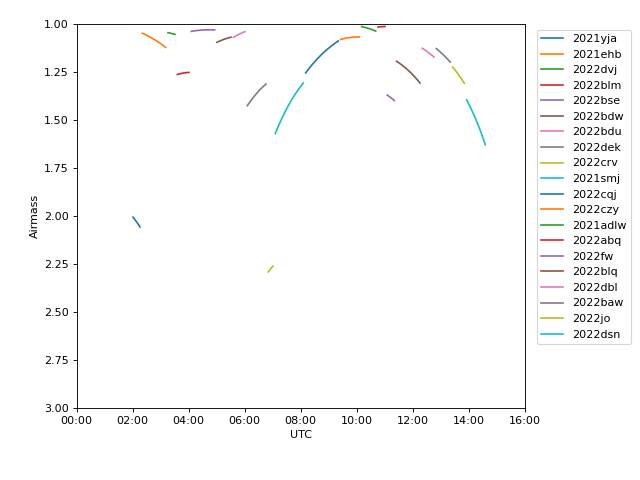
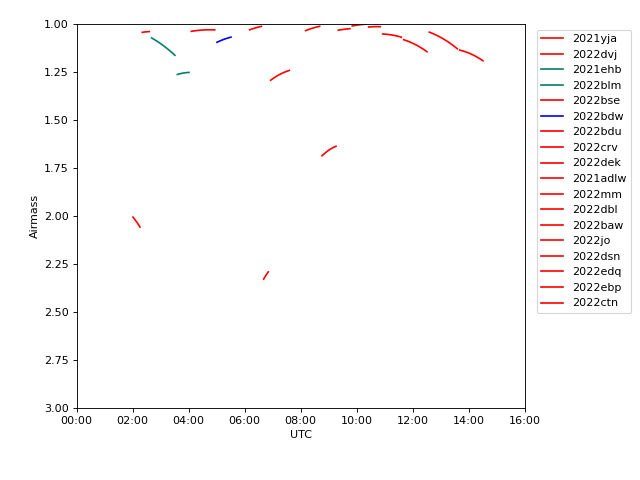
fixed priorities

diff --git a/make_schedule.py b/make_schedule.py
@@ -18,8 +18,12 @@ def parse_args():
                         help = 'fmt: yyyy-mm-dd. Date of observations. Superseeds taking the time from the filename.')
     parser.add_argument('--x', dest='x',
                         default = 2,
-                        help = 'Number of total exposure times before min airmass to star scheduling targets.')
-
+                        type = float,
+                        help = 'Sets x in minimum(30min, 30min^(1+x)*exptime^-x) - exptime/2 where [exptime] = minutes')
+    parser.add_argument('--min', dest='min',
+                        default = 30,
+                        type = float,
+                        help = 'Sets min in minimum(min, min^(1+x)*exptime^-x) - exptime/2 where [exptime] = minutes')
     args = parser.parse_args()
 
     return args
@@ -126,7 +130,7 @@ def main():
             "start":[start],
             "end":[end],
             "mag":[df["mag"]],
-            "priority:":[df["priority"]]
+            "priority":[df["priority"]]
         })
 
         sched = pd.concat([sched, entry], ignore_index=True)
@@ -134,12 +138,14 @@ def main():
     priorities = list(set(df["priority"]))
     while current_time < times[-1]:
         skipped_all=True
-        #for x in range(1,4):
         for priority in priorities:
             df_group = df[df["priority"] == priority]
             for i,target in df_group.iterrows():
                 if i in target_list:
                     continue
+                boundtime = min(args.min, args.min**(1+x)*(target["exp_time"].sec/60)**(-x)) + target["exp_time"].sec/60/2
+                boundtime = boundtime*u.min
+                print(boundtime)
                 if is_setting(current_time,target["top_time"]):
                     if is_observable(current_time,target["exp_time"],target["set_time"]):
                         start = current_time
@@ -149,10 +155,10 @@ def main():
                         target_list.append(i)
                         skipped_all = False
                         current_time = current_time +dt
-                        break
+                        continue
                     else:
                         continue
-                elif current_time + x*target["exp_time"]> target["top_time"]:
+                elif current_time + boundtime > target["top_time"]:
                     start = current_time
                     current_time = current_time + target["exp_time"]
                     end = current_time
@@ -160,10 +166,7 @@ def main():
                     target_list.append(i)
                     skipped_all=False
                     current_time = current_time +dt
-                    break
-                #curr_fr = AltAz(obstime=current_time, location=lick_obs)
-                #tar_airmass = target.transform_to(curr_fr).secz
-                #elif tar_airmass<target
+                    continue
         if skipped_all:
             current_time = current_time + dt
 
@@ -199,6 +202,8 @@ def main():
     fig = plt.figure(figsize=(8, 6), dpi=80)
     ax = fig.add_axes([0.12,0.15,0.7,0.8])
     #ax.(right=0.2)
+    color_priorities = ['autumn','summer','winter']
+    from matplotlib import cm
     for i,target in sched.iterrows():
         dt = target["end"] - target["start"]
         times = target["start"] + dt * np.linspace(0., 1., 100)-8
@@ -207,7 +212,8 @@ def main():
         coords = SkyCoord(radec,unit=(u.hourangle, u.deg))
         targetaltazs = coords.transform_to(frame)
         plottime = np.array([tt[3]+tt[4]/60.+tt[5]/60./60. for tt in times.to_value("ymdhms")])*u.hour
-        ax.plot(plottime, targetaltazs.secz,label=target["target"])
+        cmap = cm.get_cmap(color_priorities[target['priority']-1])
+        ax.plot(plottime, targetaltazs.secz,label=target["target"],color = cmap(1))
     #start,finish = np.array([tt[3]+tt[4]/60.+tt[5]/60./60. for tt in Time(ax.get_xlim(),format="jd").ymdhms])*u.hour
     #print(Time(ax.get_xlim(),format="jd").ymdhms)
     #plottime = times - 8*u.hour
